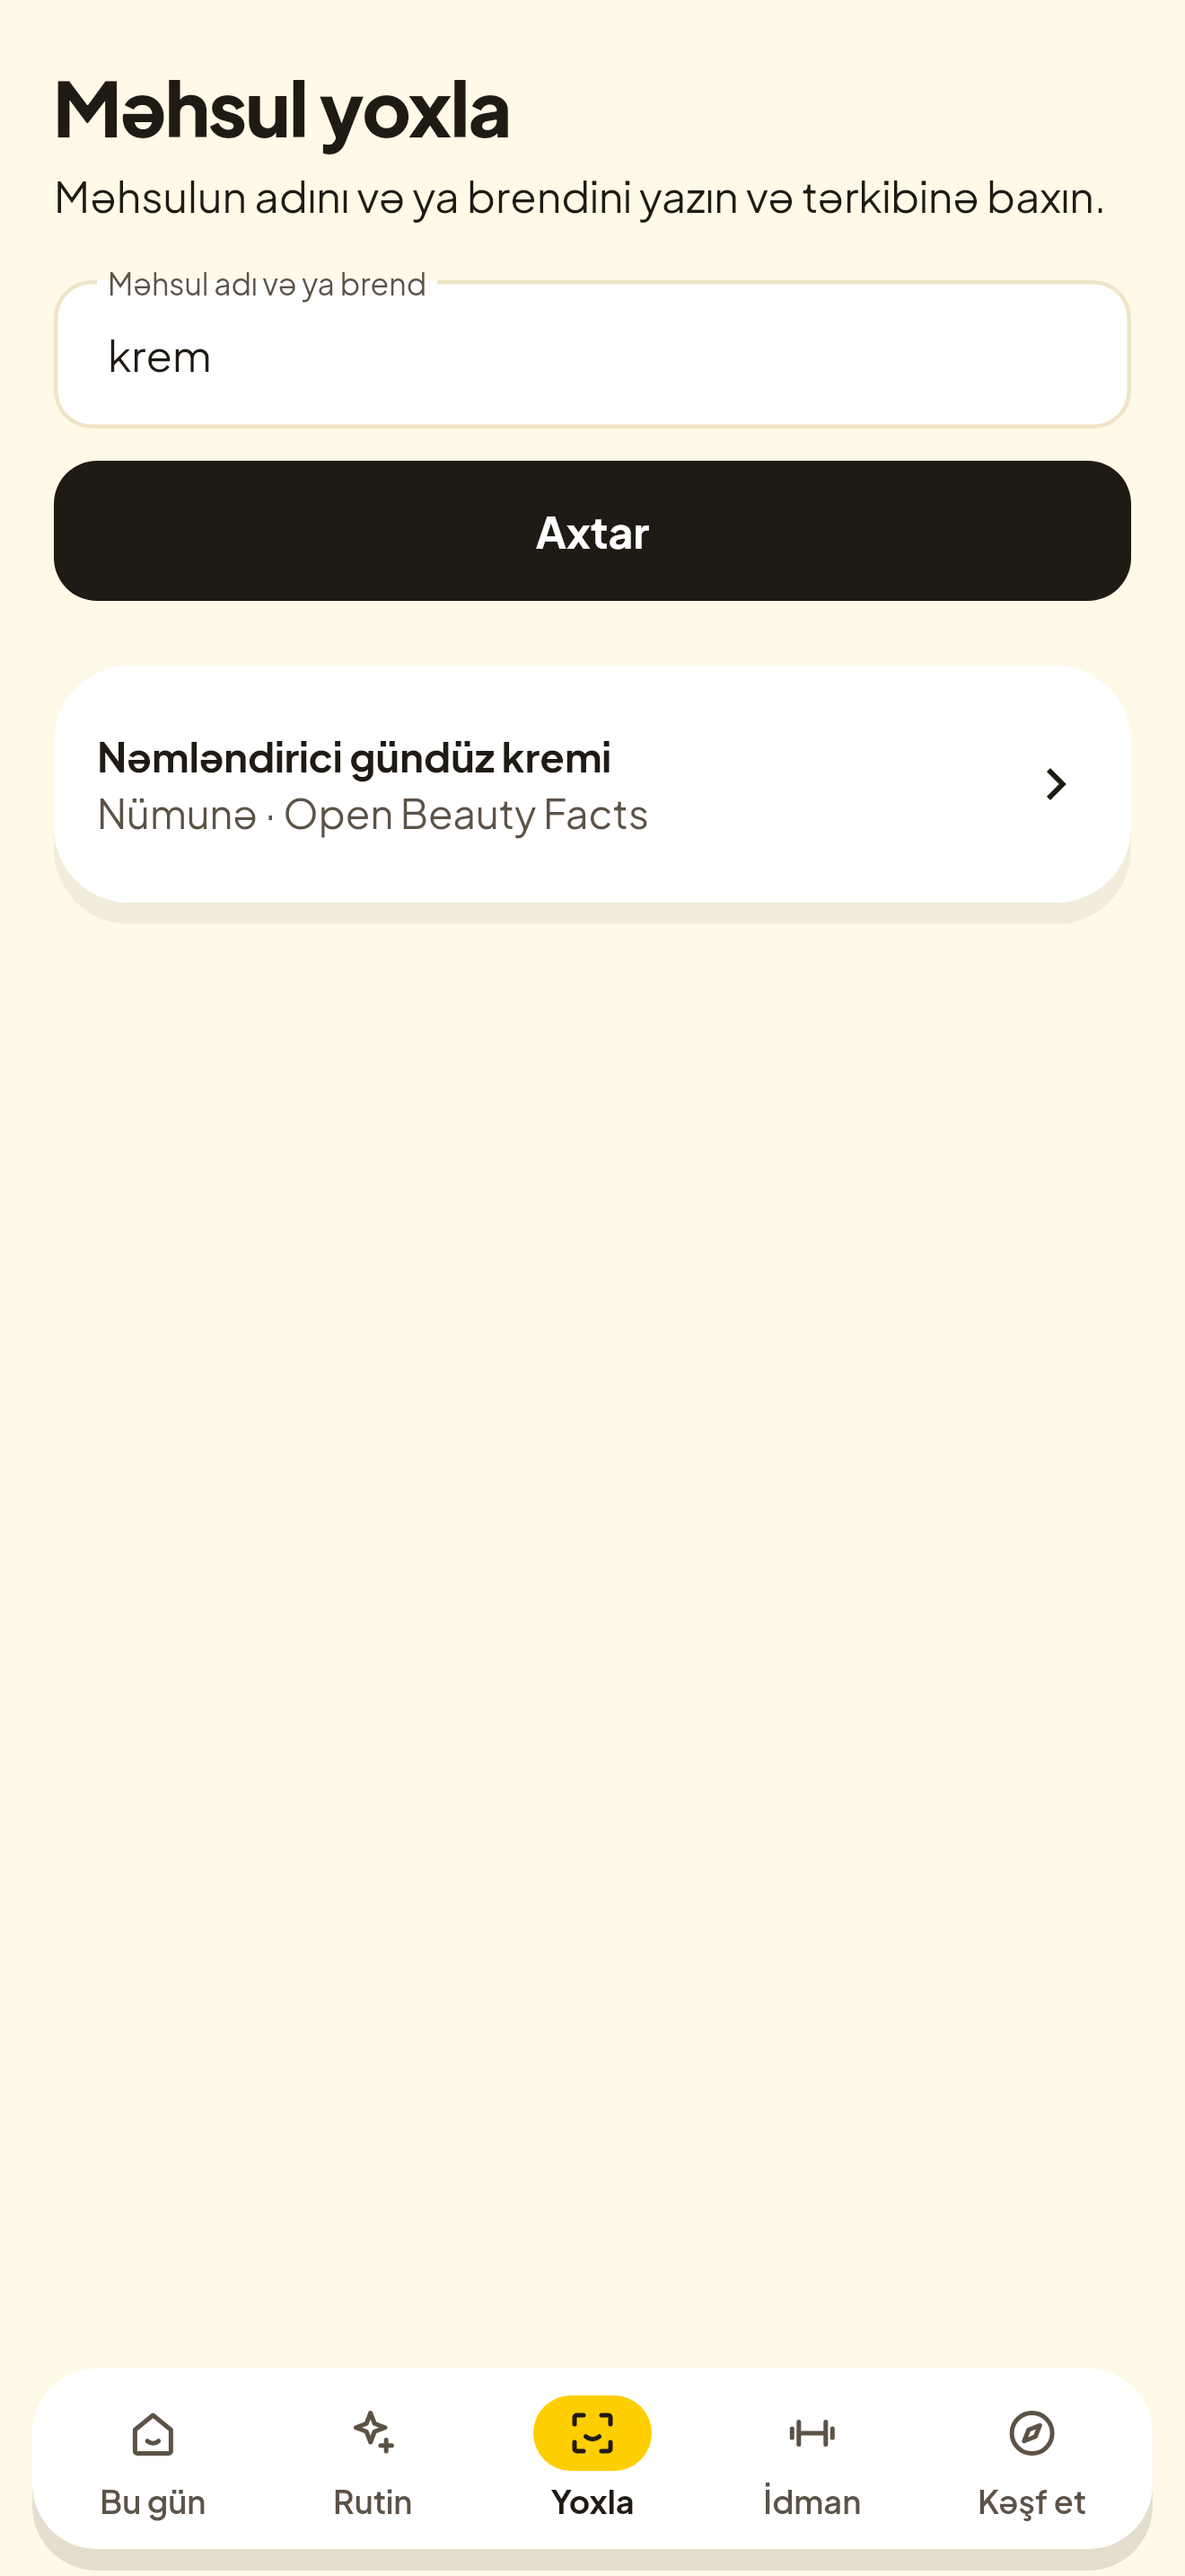
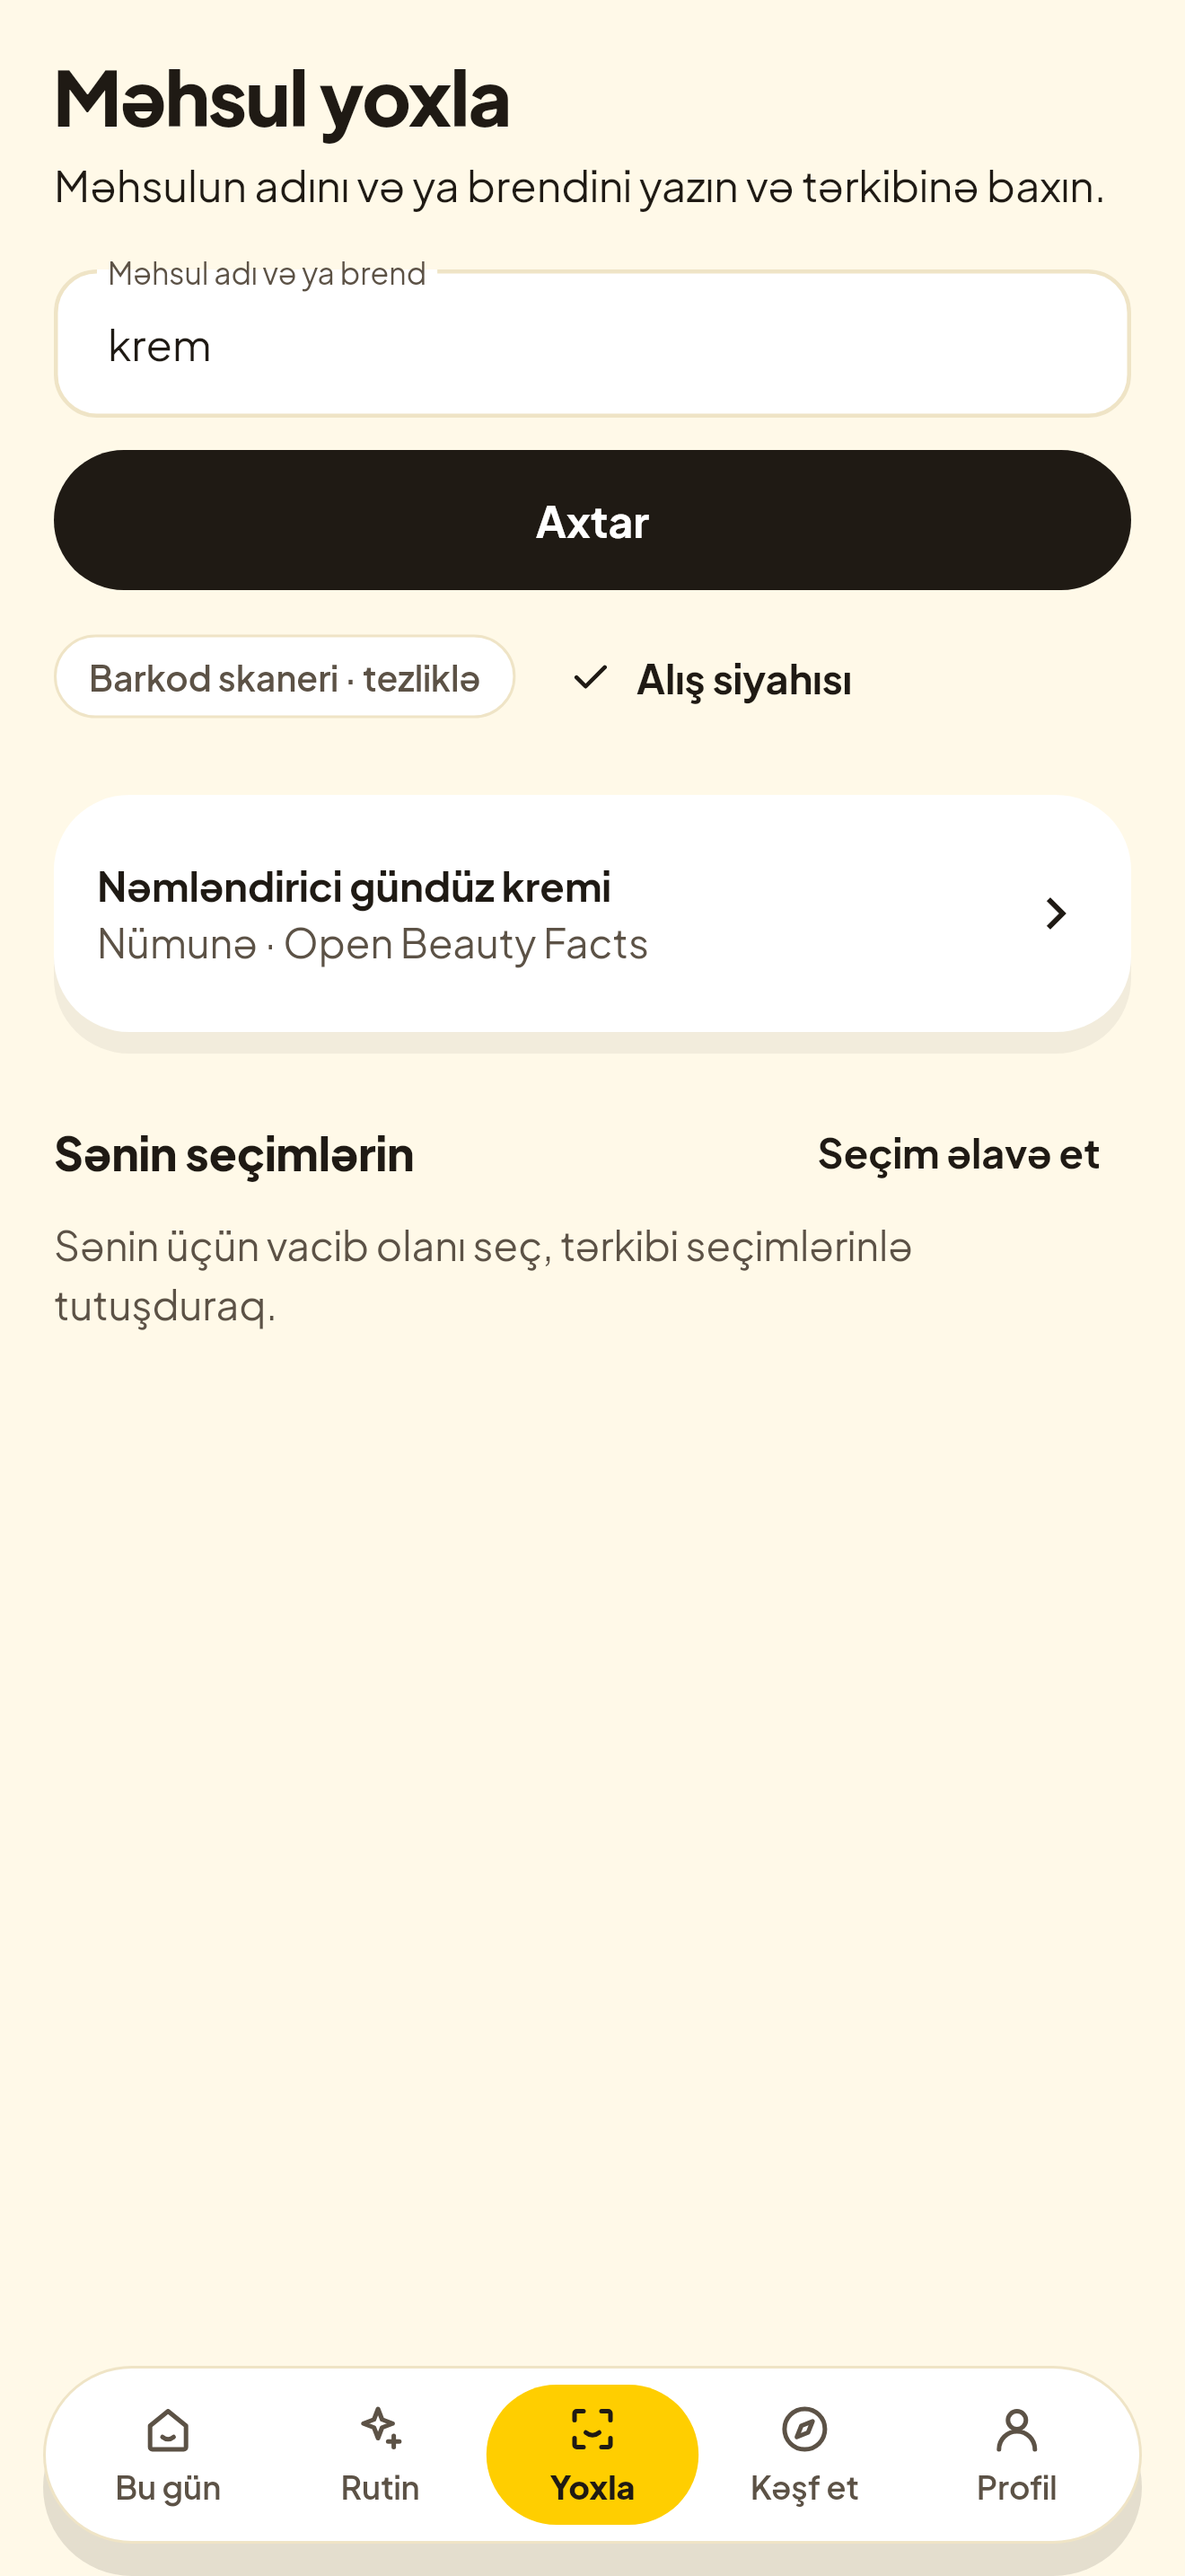
Design 2.0 (5/5): capsule shapes app-wide, store screenshots
Claude-Session: https://claude.ai/code/session_01VZZtfsHd2uEYB5CJGUSq2v

diff --git a/parla_flutter/lib/ui/brand.dart b/parla_flutter/lib/ui/brand.dart
@@ -61,8 +61,8 @@ const double kMinTextSize = 12;
 abstract final class ParlaSpace {
   static const page = 16.0;
   static const gap = 12.0;
-  static const cardRadius = 18.0;
-  static const controlRadius = 14.0;
+  static const cardRadius = 22.0;
+  static const controlRadius = 16.0;
   static const buttonHeight = 52.0;
 }
 
@@ -123,9 +123,6 @@ ThemeData parlaTheme() {
     labelSmall: style(12, FontWeight.w700, letterSpacing: 1),
   );
 
-  final rounded = RoundedRectangleBorder(
-    borderRadius: BorderRadius.circular(16),
-  );
   return ThemeData(
     useMaterial3: true,
     fontFamily: ParlaFonts.sans,
@@ -148,7 +145,7 @@ ThemeData parlaTheme() {
         disabledBackgroundColor: ParlaColors.line,
         disabledForegroundColor: ParlaColors.muted,
         minimumSize: const Size.fromHeight(ParlaSpace.buttonHeight),
-        shape: rounded,
+        shape: const StadiumBorder(),
         textStyle: textTheme.labelLarge,
       ),
     ),
@@ -157,7 +154,7 @@ ThemeData parlaTheme() {
         foregroundColor: ParlaColors.espresso,
         backgroundColor: ParlaColors.white,
         minimumSize: const Size.fromHeight(ParlaSpace.buttonHeight),
-        shape: rounded,
+        shape: const StadiumBorder(),
         side: const BorderSide(color: ParlaColors.line, width: 1.5),
         textStyle: textTheme.labelLarge,
       ),
@@ -187,6 +184,33 @@ ThemeData parlaTheme() {
       ),
       labelStyle: textTheme.bodyMedium?.copyWith(color: ParlaColors.muted),
       hintStyle: textTheme.bodyMedium?.copyWith(color: ParlaColors.outline),
+    ),
+    // Parla 2.0: capsules for chips, large rounded corners for cards,
+    // dialogs and sheets.
+    chipTheme: ChipThemeData(
+      shape: const StadiumBorder(side: BorderSide(color: ParlaColors.line)),
+      backgroundColor: ParlaColors.white,
+      selectedColor: ParlaColors.sun,
+      labelStyle: textTheme.labelLarge?.copyWith(color: ParlaColors.espresso),
+      side: const BorderSide(color: ParlaColors.line),
+      padding: const EdgeInsets.symmetric(horizontal: 10, vertical: 8),
+      showCheckmark: false,
+    ),
+    cardTheme: CardThemeData(
+      color: ParlaColors.white,
+      elevation: 0,
+      shape: RoundedRectangleBorder(borderRadius: BorderRadius.circular(22)),
+    ),
+    dialogTheme: DialogThemeData(
+      backgroundColor: ParlaColors.cream,
+      shape: RoundedRectangleBorder(borderRadius: BorderRadius.circular(28)),
+    ),
+    bottomSheetTheme: const BottomSheetThemeData(
+      backgroundColor: ParlaColors.cream,
+      showDragHandle: true,
+      shape: RoundedRectangleBorder(
+        borderRadius: BorderRadius.vertical(top: Radius.circular(28)),
+      ),
     ),
     checkboxTheme: CheckboxThemeData(
       shape: RoundedRectangleBorder(borderRadius: BorderRadius.circular(6)),

diff --git a/parla_flutter/test/screens_preview_test.dart b/parla_flutter/test/screens_preview_test.dart
@@ -20,7 +20,10 @@ import 'support/fake_api.dart';
 import 'support/fake_reminders.dart';
 
 const _enabled = bool.fromEnvironment('PALETTE_PREVIEW');
-const _language = 'az';
+const _language = String.fromEnvironment(
+  'PREVIEW_LANG',
+  defaultValue: 'az',
+);
 const _dir = String.fromEnvironment('PREVIEW_DIR');
 final _today = DateTime(2026, 11, 12, 9);
 
@@ -254,6 +257,11 @@ void main() {
     ('06_shop', Routes.shop),
     ('07_product', Routes.shopProduct),
     ('08_privacy', Routes.privacy),
+    ('10_check', Routes.products),
+    ('11_shopping', Routes.shoppingList),
+    ('12_blog_list', Routes.blog),
+    ('13_experts', Routes.experts),
+    ('14_nutrition', Routes.nutrition),
   ]) {
     testWidgets(name, skip: !_enabled, (tester) async {
       await _open(tester);

diff --git a/parla_flutter/lib/discover/discover_widgets.dart b/parla_flutter/lib/discover/discover_widgets.dart
@@ -76,7 +76,19 @@ class SubPage extends StatelessWidget {
     backgroundColor: background,
     appBar: AppBar(
       backgroundColor: background,
-      leading: BackButton(onPressed: onBack),
+      leading: Padding(
+        padding: const EdgeInsets.only(left: 8),
+        child: Center(
+          child: Material(
+            color: ParlaColors.white,
+            shape: const CircleBorder(
+              side: BorderSide(color: ParlaColors.line),
+            ),
+            child: BackButton(onPressed: onBack, color: ParlaColors.espresso),
+          ),
+        ),
+      ),
+      leadingWidth: 64,
       title: Text(title),
     ),
     body: SafeArea(
